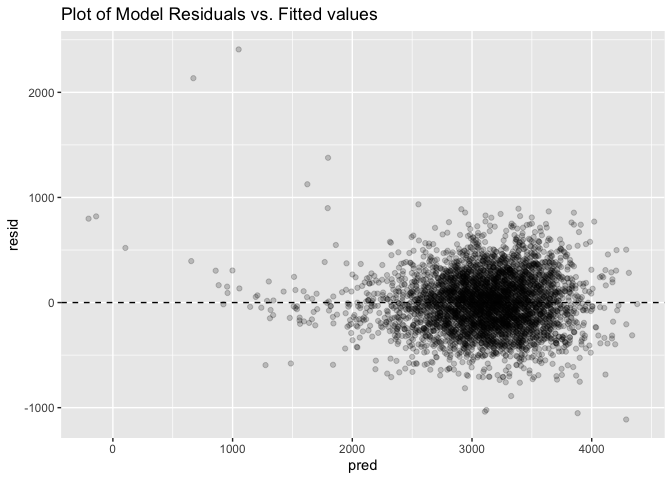
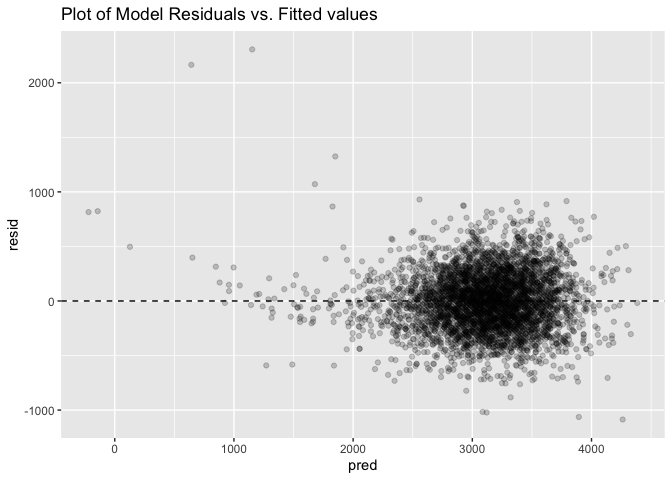
updates to p1 and p3

diff --git a/linear_models.md b/linear_models.md
@@ -5,6 +5,39 @@ Kimberly Lopez
 
 # Problem 1
 
+Load the data
+
+``` r
+weather_df = 
+  rnoaa::meteo_pull_monitors(
+    c("USW00094728"),
+    var = c("PRCP", "TMIN", "TMAX"), 
+    date_min = "2017-01-01",
+    date_max = "2017-12-31") %>%
+  mutate(
+    name = recode(id, USW00094728 = "CentralPark_NY"),
+    tmin = tmin / 10,
+    tmax = tmax / 10) %>%
+  select(name, id, everything())
+```
+
+    ## using cached file: /Users/kimlopez/Library/Caches/org.R-project.R/R/rnoaa/noaa_ghcnd/USW00094728.dly
+
+    ## date created (size, mb): 2024-09-26 10:19:32.377321 (8.651)
+
+    ## file min/max dates: 1869-01-01 / 2024-09-30
+
+``` r
+n_bootstrap = 5000
+
+bootstrap_results = 
+  replicate(n_bootstrap, {
+    bootstrap_sample= sample_n(weather_df, nrow(weather_df), replace = TRUE)
+    
+    model= lm(tmax ~ tmin, data = bootstrap_sample)
+})
+```
+
 # Problem 2
 
 Import data. Create a city_state variable (e.g. “Baltimore, MD”), and a
@@ -145,7 +178,7 @@ city_OR |>
   )
 ```
 
-![](linear_models_files/figure-gfm/unnamed-chunk-5-1.png)<!-- -->
+![](linear_models_files/figure-gfm/unnamed-chunk-7-1.png)<!-- -->
 
 This plot shows increasing OR of males compared to females odds of
 having their case solved in cities in the US while controling for race
@@ -215,10 +248,6 @@ Describe your modeling process and show a plot of model residuals
 against fitted values – use add_predictions and add_residuals in making
 this plot.
 
-``` r
-set.seed(123)
-```
-
 **Cross Validation**
 
 ``` r
@@ -253,28 +282,27 @@ lasso_fit_opt|>
   broom::tidy()
 ```
 
-    ## # A tibble: 19 × 5
-    ##    term               step   estimate lambda dev.ratio
-    ##    <chr>             <dbl>      <dbl>  <dbl>     <dbl>
-    ##  1 (Intercept)           1 -5922.      0.794     0.720
-    ##  2 babysexfemale         1    31.5     0.794     0.720
-    ##  3 bhead                 1   126.      0.794     0.720
-    ##  4 blength               1    77.8     0.794     0.720
-    ##  5 delwt                 1     1.59    0.794     0.720
-    ##  6 fincome               1     0.0805  0.794     0.720
-    ##  7 fracepuerto rican     1   -39.2     0.794     0.720
-    ##  8 gaweeks               1    11.8     0.794     0.720
-    ##  9 malformTRUE           1    22.7     0.794     0.720
-    ## 10 menarche              1    -4.59    0.794     0.720
-    ## 11 mheight               1     5.30    0.794     0.720
-    ## 12 momage                1    -0.739   0.794     0.720
-    ## 13 mraceblack            1  -117.      0.794     0.720
-    ## 14 mracepuerto rican     1   -44.3     0.794     0.720
-    ## 15 mraceasian            1   -30.9     0.794     0.720
-    ## 16 parity                1    87.1     0.794     0.720
-    ## 17 smoken                1    -4.46    0.794     0.720
-    ## 18 wtgain                1     2.54    0.794     0.720
-    ## 19 id                    1    -0.0214  0.794     0.720
+    ## # A tibble: 18 × 5
+    ##    term               step    estimate lambda dev.ratio
+    ##    <chr>             <dbl>       <dbl>  <dbl>     <dbl>
+    ##  1 (Intercept)           1 -5942.        3.16     0.717
+    ##  2 babysexfemale         1    24.8       3.16     0.717
+    ##  3 bhead                 1   131.        3.16     0.717
+    ##  4 blength               1    74.3       3.16     0.717
+    ##  5 delwt                 1     1.33      3.16     0.717
+    ##  6 fincome               1     0.0474    3.16     0.717
+    ##  7 fraceblack            1    -3.20      3.16     0.717
+    ##  8 fracepuerto rican     1   -47.4       3.16     0.717
+    ##  9 gaweeks               1    11.4       3.16     0.717
+    ## 10 menarche              1    -0.00224   3.16     0.717
+    ## 11 mheight               1     5.27      3.16     0.717
+    ## 12 mraceblack            1  -119.        3.16     0.717
+    ## 13 mracepuerto rican     1   -24.6       3.16     0.717
+    ## 14 mraceasian            1   -64.7       3.16     0.717
+    ## 15 parity                1    62.9       3.16     0.717
+    ## 16 smoken                1    -4.20      3.16     0.717
+    ## 17 wtgain                1     3.06      3.16     0.717
+    ## 18 id                    1    -0.0161    3.16     0.717
 
 ``` r
 lasso_fit_opt |> 
@@ -284,11 +312,11 @@ lasso_fit_opt |>
 ```
 
     ##  [1] "babysexfemale"     "bhead"             "blength"          
-    ##  [4] "delwt"             "fincome"           "fracepuerto rican"
-    ##  [7] "gaweeks"           "malformTRUE"       "menarche"         
-    ## [10] "mheight"           "momage"            "mraceblack"       
-    ## [13] "mracepuerto rican" "mraceasian"        "parity"           
-    ## [16] "smoken"            "wtgain"            "id"
+    ##  [4] "delwt"             "fincome"           "fraceblack"       
+    ##  [7] "fracepuerto rican" "gaweeks"           "menarche"         
+    ## [10] "mheight"           "mraceblack"        "mracepuerto rican"
+    ## [13] "mraceasian"        "parity"            "smoken"           
+    ## [16] "wtgain"            "id"
 
 ``` r
 model_1 = lm(bwt ~ babysex + bhead + blength + delwt + fincome + frace + gaweeks + mheight + mrace + parity + smoken + wtgain, data = train_df)
@@ -303,35 +331,35 @@ summary(model_1)
     ##     data = train_df)
     ## 
     ## Residuals:
-    ##     Min      1Q  Median      3Q     Max 
-    ## -1112.6  -184.9    -3.5   173.1  2408.4 
+    ##      Min       1Q   Median       3Q      Max 
+    ## -1078.53  -182.82    -8.08   175.36  2310.74 
     ## 
     ## Coefficients:
     ##                     Estimate Std. Error t value Pr(>|t|)    
-    ## (Intercept)       -6082.0663   153.2811 -39.679  < 2e-16 ***
-    ## babysexfemale        33.0409     9.4628   3.492 0.000486 ***
-    ## bhead               128.1989     3.8632  33.185  < 2e-16 ***
-    ## blength              76.6653     2.2722  33.741  < 2e-16 ***
-    ## delwt                 1.5883     0.2600   6.110 1.11e-09 ***
-    ## fincome               0.2708     0.1968   1.376 0.168883    
-    ## fraceblack           41.8841    51.5298   0.813 0.416381    
-    ## fracepuerto rican   -38.4964    48.9366  -0.787 0.431535    
-    ## fraceasian           12.8246    78.4931   0.163 0.870225    
-    ## fraceother           -8.0798    77.3762  -0.104 0.916840    
-    ## gaweeks              12.0633     1.6413   7.350 2.47e-13 ***
-    ## mheight               5.7657     1.9915   2.895 0.003813 ** 
-    ## mraceblack         -176.4426    51.3786  -3.434 0.000601 ***
-    ## mracepuerto rican   -67.0625    49.6501  -1.351 0.176879    
-    ## mraceasian          -62.0470    81.6059  -0.760 0.447113    
-    ## parity               97.3413    40.4631   2.406 0.016195 *  
-    ## smoken               -4.6392     0.6531  -7.104 1.47e-12 ***
-    ## wtgain                2.3629     0.4799   4.923 8.90e-07 ***
+    ## (Intercept)       -6083.7293   154.0539 -39.491  < 2e-16 ***
+    ## babysexfemale        31.3904     9.4360   3.327 0.000888 ***
+    ## bhead               132.7813     3.8856  34.172  < 2e-16 ***
+    ## blength              73.4599     2.2520  32.620  < 2e-16 ***
+    ## delwt                 1.3527     0.2564   5.276 1.40e-07 ***
+    ## fincome               0.2587     0.1979   1.307 0.191199    
+    ## fraceblack           -3.8822    50.7160  -0.077 0.938988    
+    ## fracepuerto rican   -61.9041    46.9007  -1.320 0.186956    
+    ## fraceasian           -8.2682    79.7399  -0.104 0.917422    
+    ## fraceother           10.6386    80.3857   0.132 0.894720    
+    ## gaweeks              12.1307     1.6824   7.210 6.83e-13 ***
+    ## mheight               6.1999     1.9819   3.128 0.001773 ** 
+    ## mraceblack         -141.5303    50.5738  -2.798 0.005163 ** 
+    ## mracepuerto rican   -41.7501    47.4492  -0.880 0.378980    
+    ## mraceasian          -94.6940    81.0952  -1.168 0.243013    
+    ## parity               96.3294    40.3849   2.385 0.017120 *  
+    ## smoken               -4.9266     0.6599  -7.466 1.04e-13 ***
+    ## wtgain                3.0924     0.4794   6.450 1.27e-10 ***
     ## ---
     ## Signif. codes:  0 '***' 0.001 '**' 0.01 '*' 0.05 '.' 0.1 ' ' 1
     ## 
-    ## Residual standard error: 272.9 on 3456 degrees of freedom
-    ## Multiple R-squared:  0.7177, Adjusted R-squared:  0.7163 
-    ## F-statistic: 516.8 on 17 and 3456 DF,  p-value: < 2.2e-16
+    ## Residual standard error: 272.3 on 3456 degrees of freedom
+    ## Multiple R-squared:  0.7158, Adjusted R-squared:  0.7144 
+    ## F-statistic:   512 on 17 and 3456 DF,  p-value: < 2.2e-16
 
 ``` r
 bwt_df_predictions = 
@@ -347,7 +375,7 @@ bwt_df_predictions |>
   labs(title = "Plot of Model Residuals vs. Fitted values")
 ```
 
-![](linear_models_files/figure-gfm/unnamed-chunk-12-1.png)<!-- -->
+![](linear_models_files/figure-gfm/unnamed-chunk-13-1.png)<!-- -->
 
 I used the lasso method to identify important predictors for the outcome
 `bwt`. Since we have multiple coefficients in this data set, I used the
@@ -393,13 +421,13 @@ cv_df |>
     ##  1 female     34      51  3629   177      35 white    39.9 FALSE         13
     ##  2 male       34      48  3062   156      65 black    25.9 FALSE         14
     ##  3 female     36      50  3345   148      85 white    39.9 FALSE         12
-    ##  4 female     34      52  3374   156       5 white    41.6 FALSE         13
-    ##  5 male       33      52  3374   129      55 white    40.7 FALSE         12
-    ##  6 female     33      46  2523   126      96 black    40.3 FALSE         14
-    ##  7 female     33      49  2778   140       5 white    37.4 FALSE         12
-    ##  8 male       36      52  3515   146      85 white    40.3 FALSE         11
-    ##  9 male       33      50  3459   169      75 black    40.7 FALSE         12
-    ## 10 female     35      51  3317   130      55 white    43.4 FALSE         13
+    ##  4 male       34      52  3062   157      55 white    40   FALSE         14
+    ##  5 female     33      46  2523   126      96 black    40.3 FALSE         14
+    ##  6 female     33      49  2778   140       5 white    37.4 FALSE         12
+    ##  7 male       36      52  3515   146      85 white    40.3 FALSE         11
+    ##  8 male       33      50  3459   169      75 black    40.7 FALSE         12
+    ##  9 female     35      51  3317   130      55 white    43.4 FALSE         13
+    ## 10 male       35      51  3459   146      55 white    39.4 FALSE         12
     ## # ℹ 3,463 more rows
     ## # ℹ 11 more variables: mheight <dbl>, momage <dbl>, mrace <fct>, parity <dbl>,
     ## #   pnumlbw <dbl>, pnumsga <dbl>, ppbmi <dbl>, ppwt <dbl>, smoken <dbl>,
@@ -415,16 +443,16 @@ cv_df |>
     ## # A tibble: 869 × 21
     ##    babysex bhead blength   bwt delwt fincome frace gaweeks malform menarche
     ##    <fct>   <dbl>   <dbl> <dbl> <dbl>   <dbl> <fct>   <dbl> <lgl>      <dbl>
-    ##  1 male       34      52  3062   157      55 white    40   FALSE         14
-    ##  2 male       35      51  3459   146      55 white    39.4 FALSE         12
-    ##  3 male       35      56  3232   147      55 white    42.1 FALSE         13
-    ##  4 female     35      57  3374   147      45 white    39.6 FALSE         12
-    ##  5 male       34      49  3175   148      96 black    39.7 FALSE         10
-    ##  6 female     33      49  2948   129      25 white    41   FALSE         13
-    ##  7 female     35      52  3289   135      55 white    40.6 FALSE         13
-    ##  8 male       38      53  3799   167      75 white    39.9 FALSE         12
-    ##  9 female     35      53  3600   141      35 white    42.3 FALSE         14
-    ## 10 female     33      49  3147   140      45 white    40.6 FALSE         12
+    ##  1 female     34      52  3374   156       5 white    41.6 FALSE         13
+    ##  2 male       33      52  3374   129      55 white    40.7 FALSE         12
+    ##  3 male       36      52  3629   152      45 white    39.6 FALSE         11
+    ##  4 female     33      49  2948   129      25 white    41   FALSE         13
+    ##  5 male       35      51  3345   145      75 white    41.3 FALSE         12
+    ##  6 female     35      51  3827   130      45 white    41.3 FALSE         12
+    ##  7 male       35      55  3856   171      85 white    41.1 FALSE         13
+    ##  8 female     34      54  3345   130      95 white    42.1 FALSE         10
+    ##  9 female     36      51  3317   136      65 white    42.6 FALSE         14
+    ## 10 female     32      48  2551   170      35 white    39.9 FALSE          8
     ## # ℹ 859 more rows
     ## # ℹ 11 more variables: mheight <dbl>, momage <dbl>, mrace <fct>, parity <dbl>,
     ## #   pnumlbw <dbl>, pnumsga <dbl>, ppbmi <dbl>, ppwt <dbl>, smoken <dbl>,
@@ -446,12 +474,6 @@ cv_df =
     rmse_m3 = map2_dbl(model_3, test, \(mod, df) rmse(model = mod, data = df)))
 ```
 
-    ## Warning: There was 1 warning in `mutate()`.
-    ## ℹ In argument: `rmse_m1 = map2_dbl(model_1, test, function(mod, df) rmse(model
-    ##   = mod, data = df))`.
-    ## Caused by warning in `predict.lm()`:
-    ## ! prediction from rank-deficient fit; attr(*, "non-estim") has doubtful cases
-
 Plotting the prediction error to compare models
 
 ``` r
@@ -466,9 +488,11 @@ cv_df |>
   ggplot(aes(x = model, y = rmse)) + geom_violin()
 ```
 
-![](linear_models_files/figure-gfm/unnamed-chunk-16-1.png)<!-- -->
+![](linear_models_files/figure-gfm/unnamed-chunk-17-1.png)<!-- -->
 
 This plot shows that model 1 had a lower Root Mean Squared Error
 compared to Model 2 and 3 and therefore consistently out predicts the
 model 2 of `blength` and `gaweeks` and 3 which uses `bhead`, `blength`,
-`babysex`, and their interaction term.
+`babysex`, and their interaction term. This is likely due to the model
+including a broader set of relevant variables to birth weight, which
+helps it make more accurate predictions based on the training dataset.
